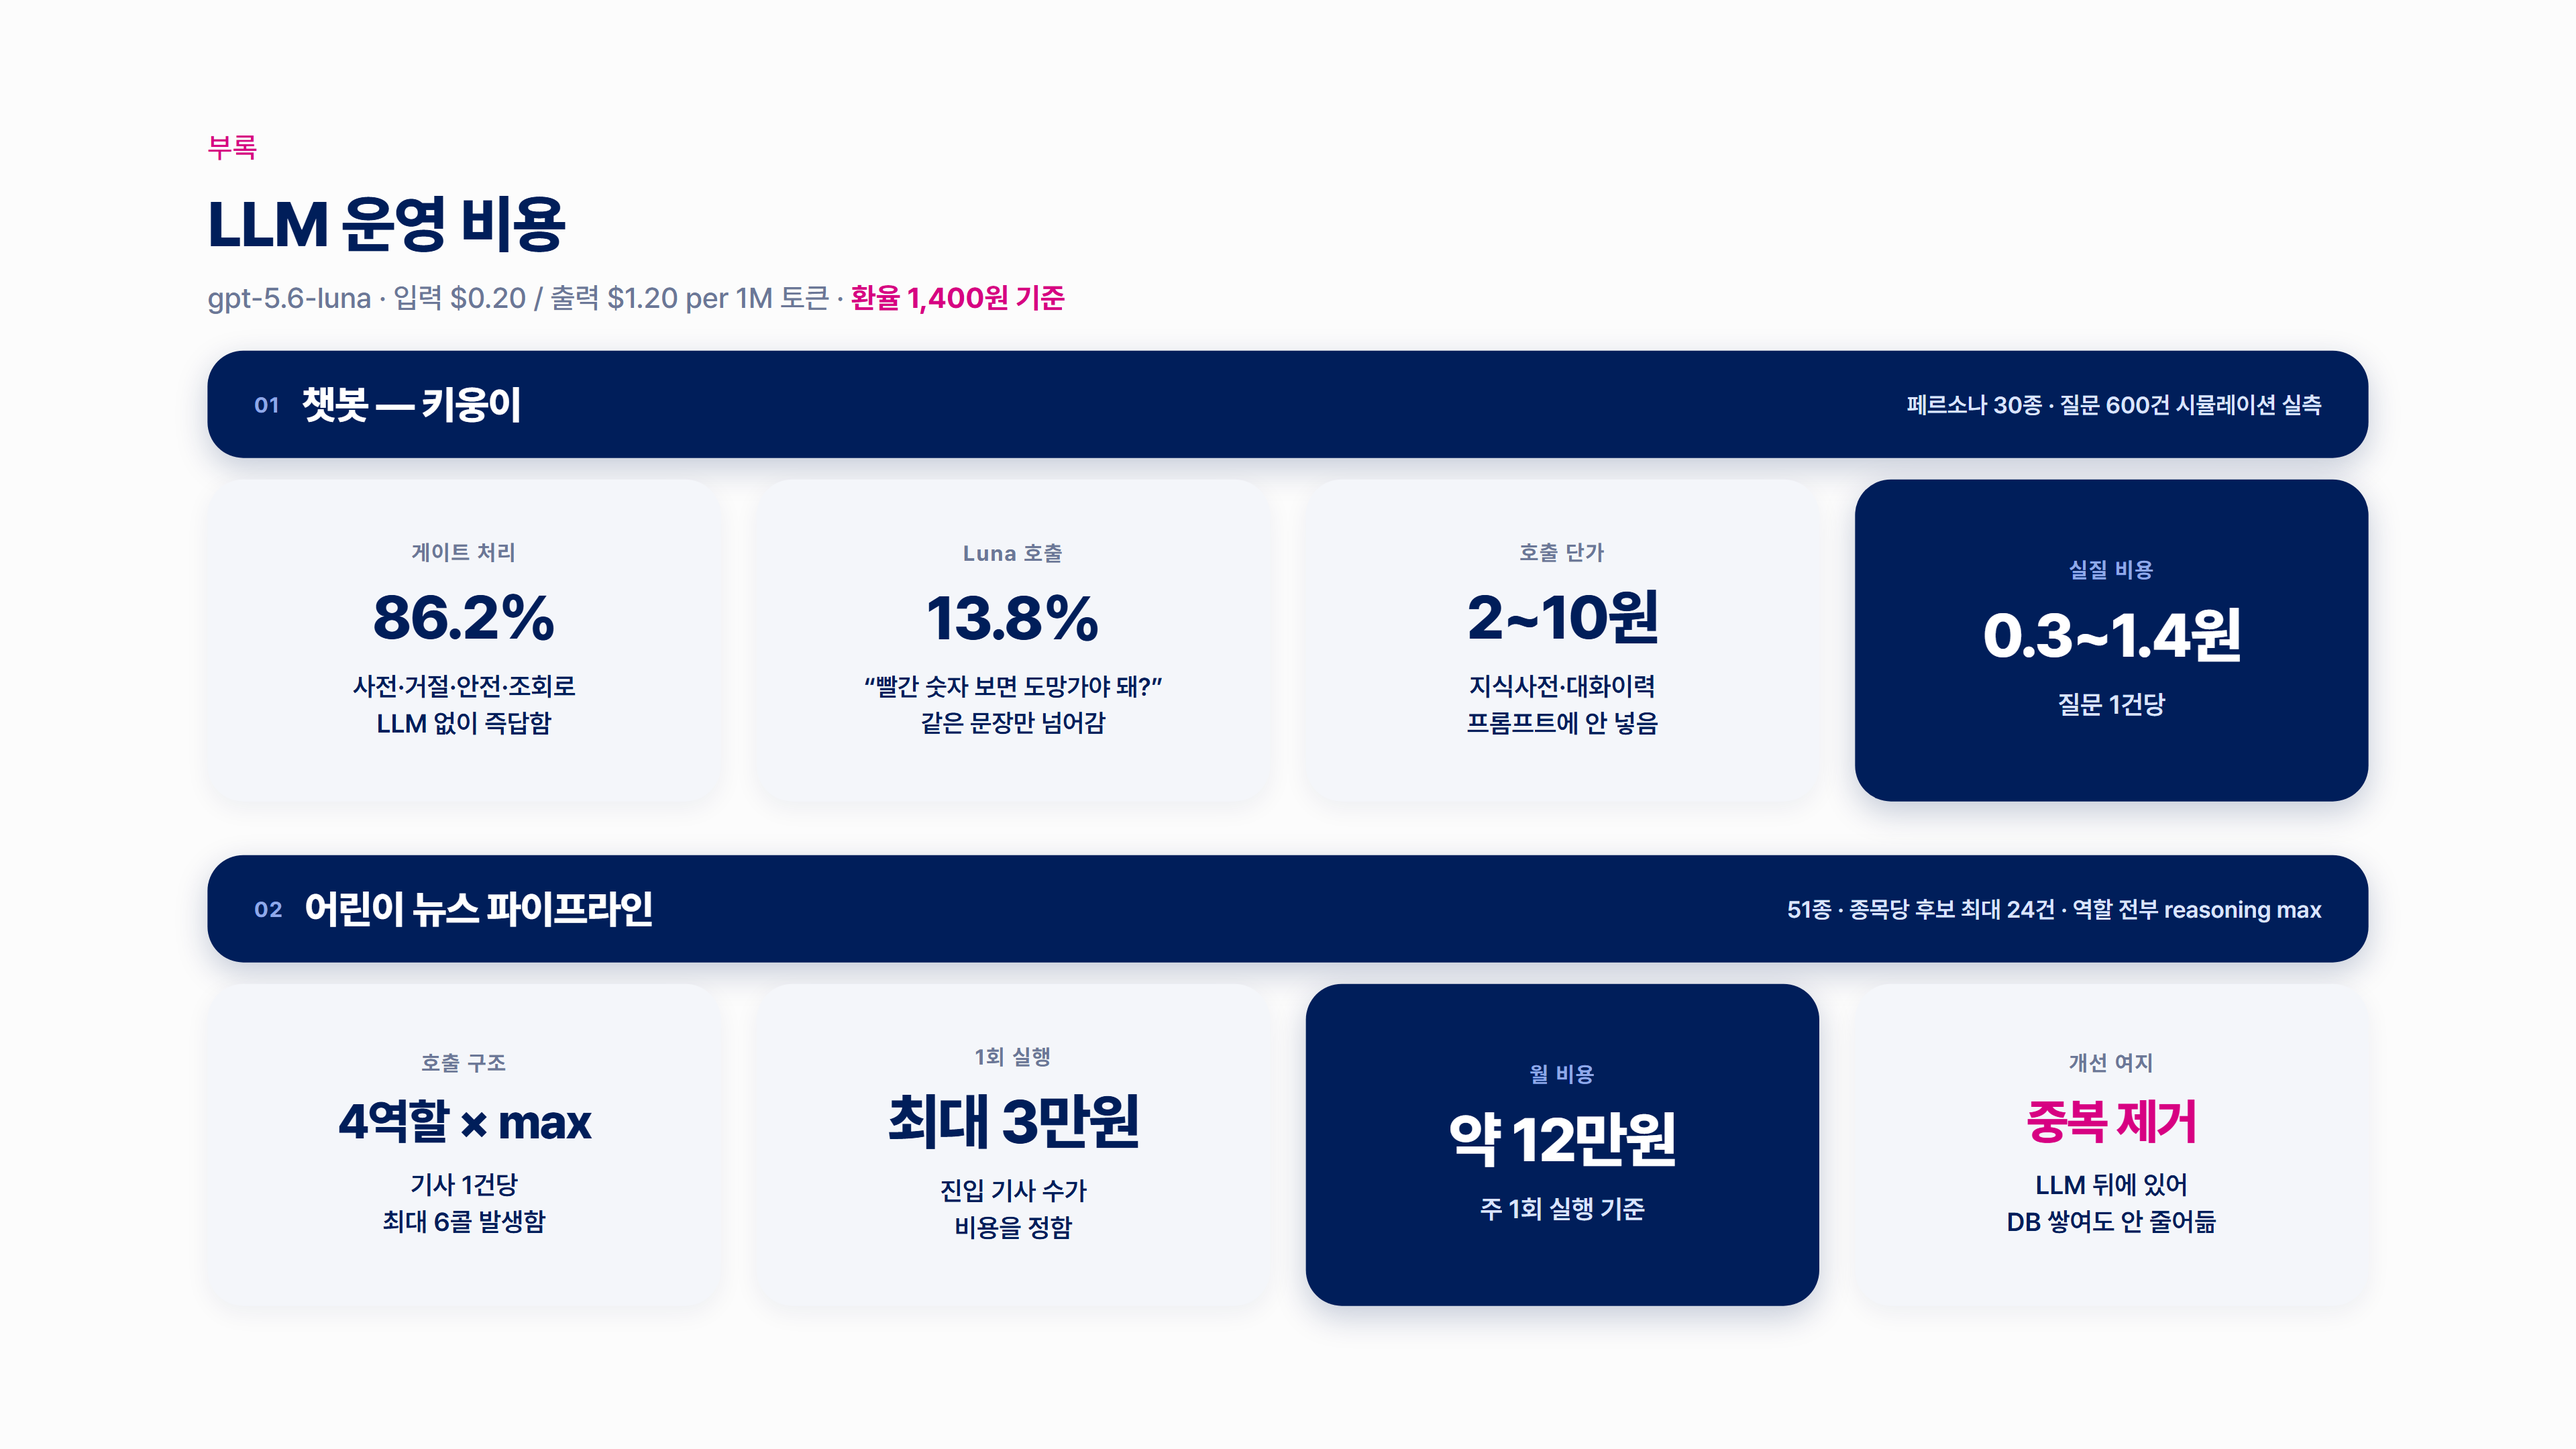
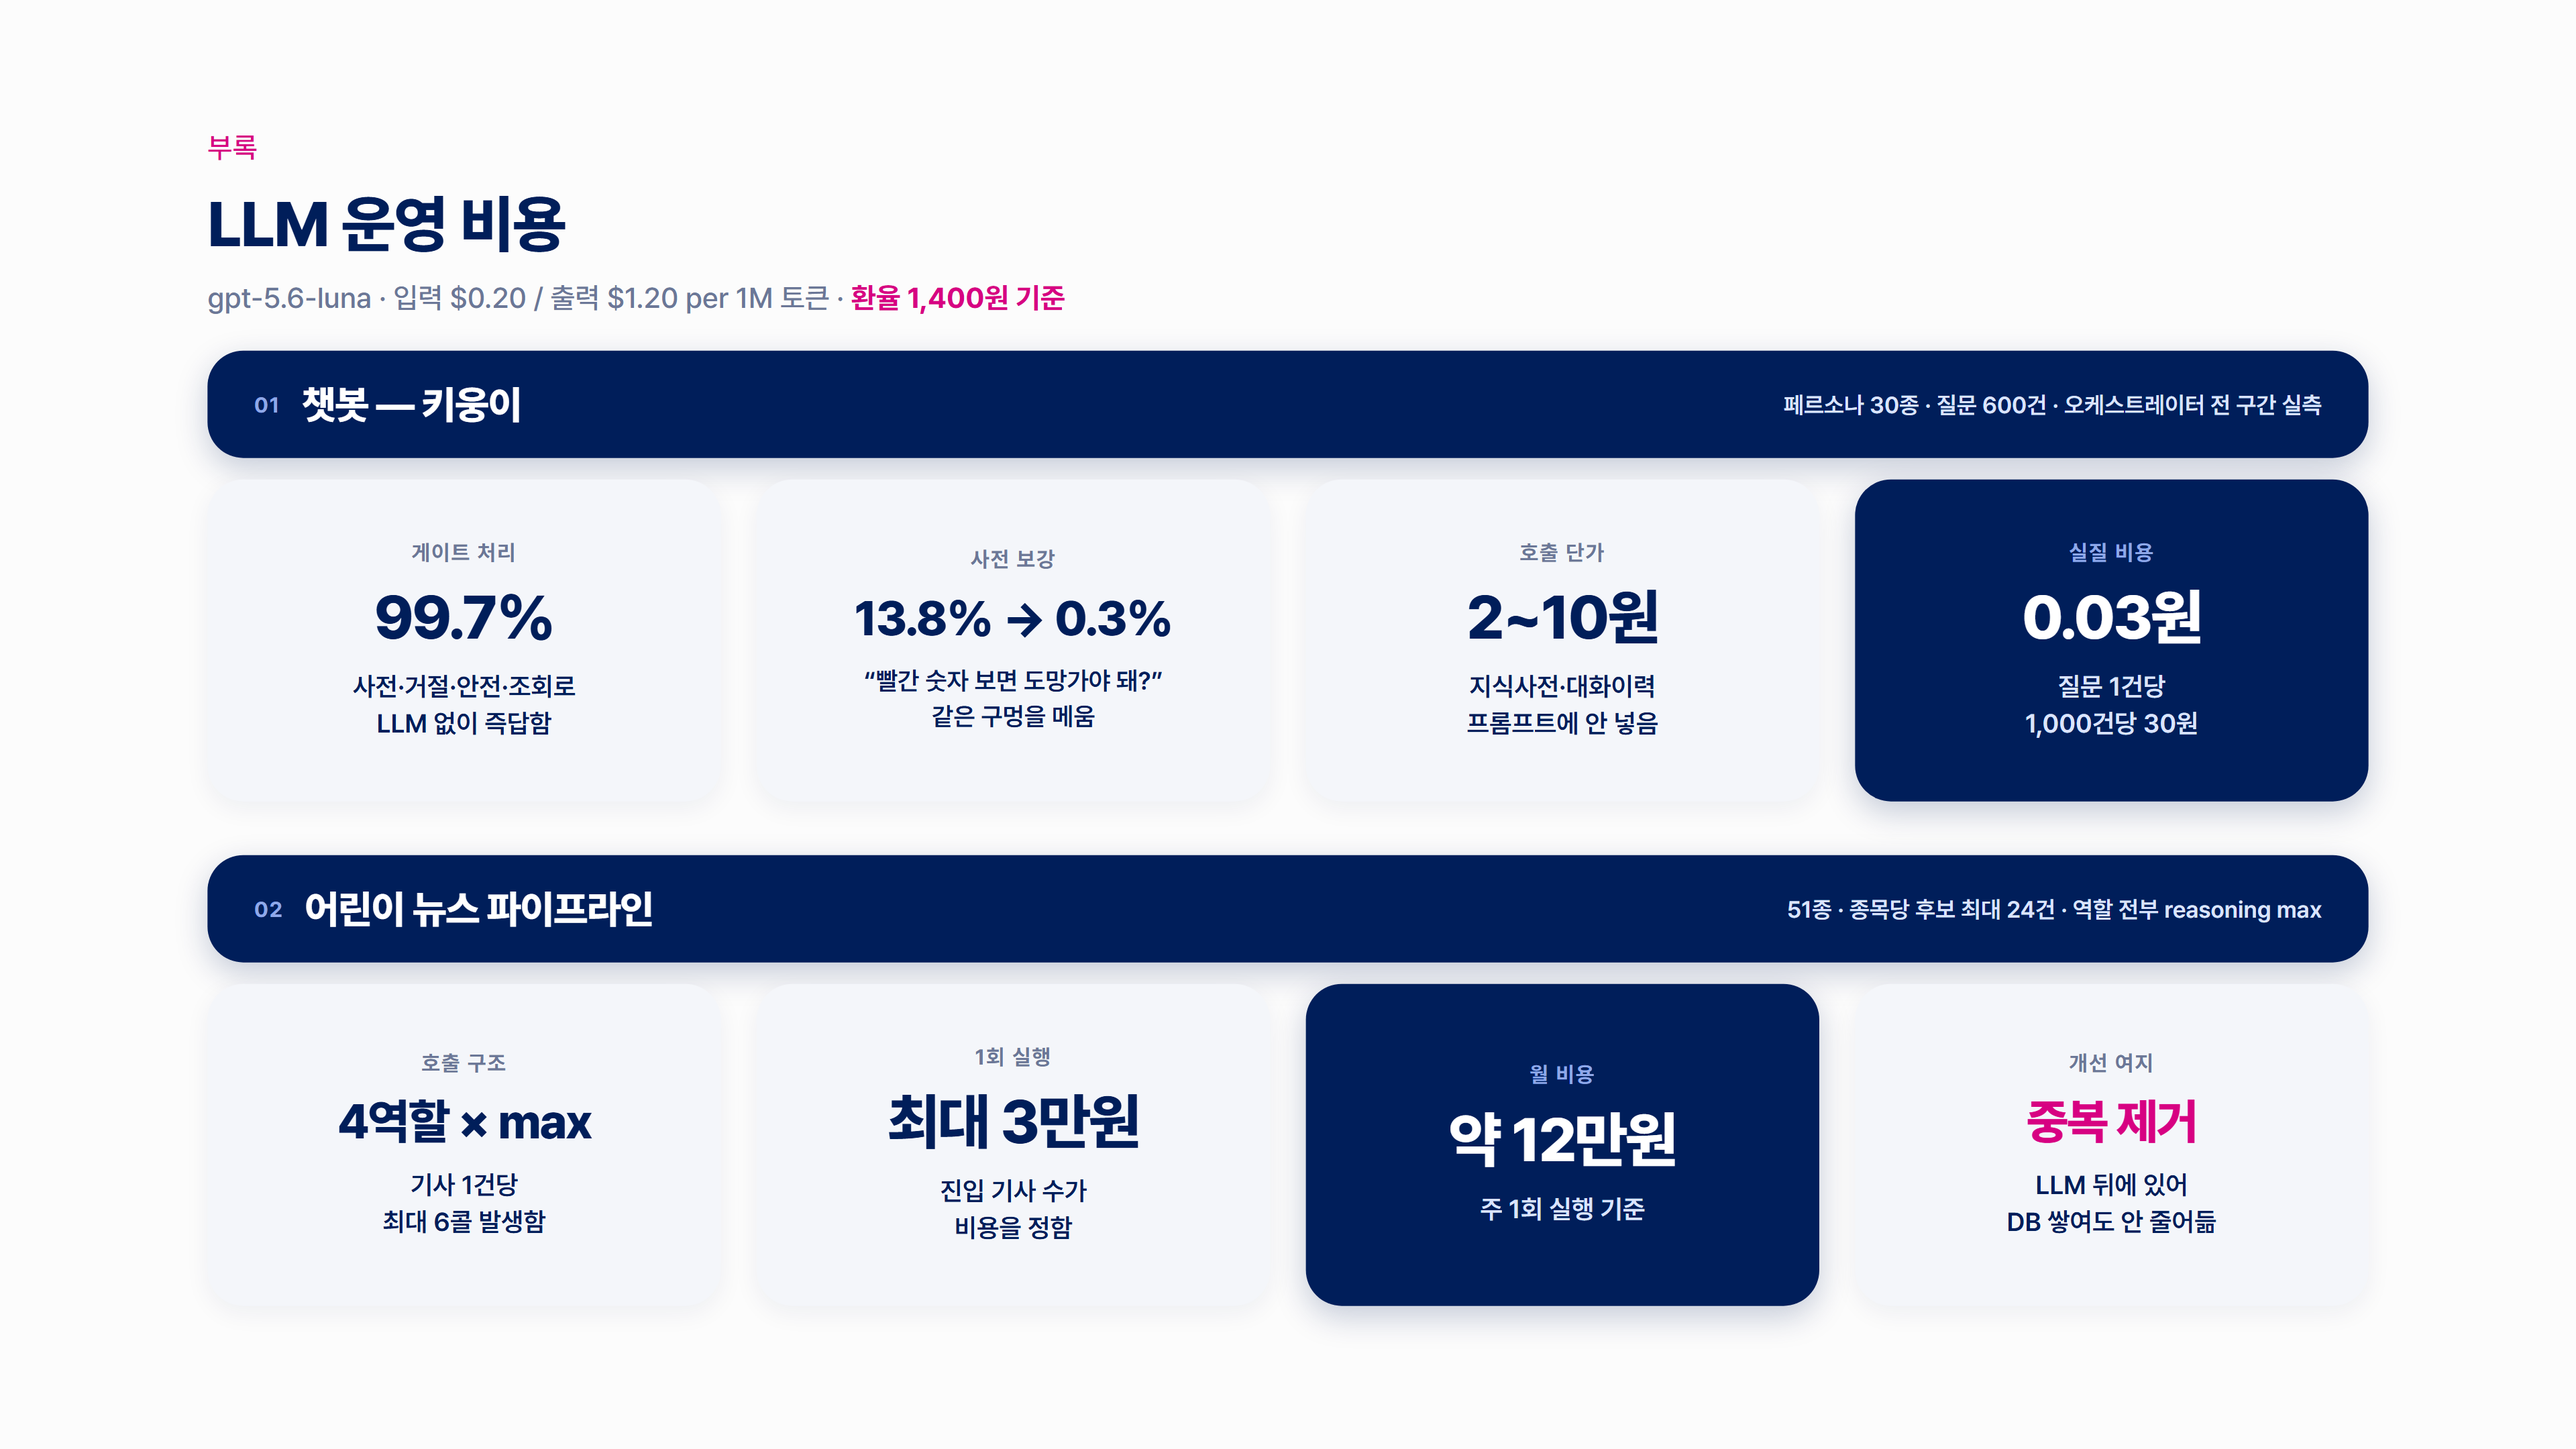
챗봇 수치를 오케스트레이터 전 구간 기준선으로 바로잡는다
앞서 쓴 86.2% / 13.8% 는 2026-08-13 커버리지 리포트 값인데, 그 실행은
routeMessage() 단독이고 리포트 자체가 사전 구멍을 찾으려고 돌린 것이다.
구멍을 메운 뒤 오케스트레이터 전 구간 기준선(REGRESSION.md, 2026-08-15)
은 600건 중 fallback 2건 = 0.3% 다. 게이트 처리 99.7%, 질문 1건당 실질
0.03원으로 고쳤다.

인용 문장은 그대로 두되 `이런 문장만 넘어감` 이 아니라 `이런 구멍을 메움`
으로 바꿨다. 그 문장은 지금은 사전이 잡는다.

diff --git a/docs/비용_슬라이드.html b/docs/비용_슬라이드.html
@@ -69,17 +69,17 @@
   <!-- ══ 상단 · 챗봇 ══ -->
   <div class="band" style="top:196px">
     <span class="btag">01</span><span class="bname">챗봇 — 키웅이</span>
-    <span class="bnote">페르소나 30종 · 질문 600건 시뮬레이션 실측</span>
+    <span class="bnote">페르소나 30종 · 질문 600건 · 오케스트레이터 전 구간 실측</span>
   </div>
   <div class="card" style="left:116px;top:268px">
     <div class="klab">게이트 처리</div>
-    <div class="big">86.2%</div>
+    <div class="big">99.7%</div>
     <div class="lab">사전·거절·안전·조회로<br>LLM 없이 즉답함</div>
   </div>
   <div class="card" style="left:423px;top:268px">
-    <div class="klab">Luna 호출</div>
-    <div class="big">13.8%</div>
-    <div class="quote">“빨간 숫자 보면 도망가야 돼?”<br>같은 문장만 넘어감</div>
+    <div class="klab">사전 보강</div>
+    <div class="big mid">13.8% → 0.3%</div>
+    <div class="quote">“빨간 숫자 보면 도망가야 돼?”<br>같은 구멍을 메움</div>
   </div>
   <div class="card" style="left:730px;top:268px">
     <div class="klab">호출 단가</div>
@@ -88,8 +88,8 @@
   </div>
   <div class="card solid" style="left:1037px;top:268px">
     <div class="klab">실질 비용</div>
-    <div class="big">0.3~1.4원</div>
-    <div class="lab">질문 1건당</div>
+    <div class="big">0.03원</div>
+    <div class="lab">질문 1건당<br>1,000건당 30원</div>
   </div>
 
   <!-- ══ 하단 · 뉴스 파이프라인 ══ -->
